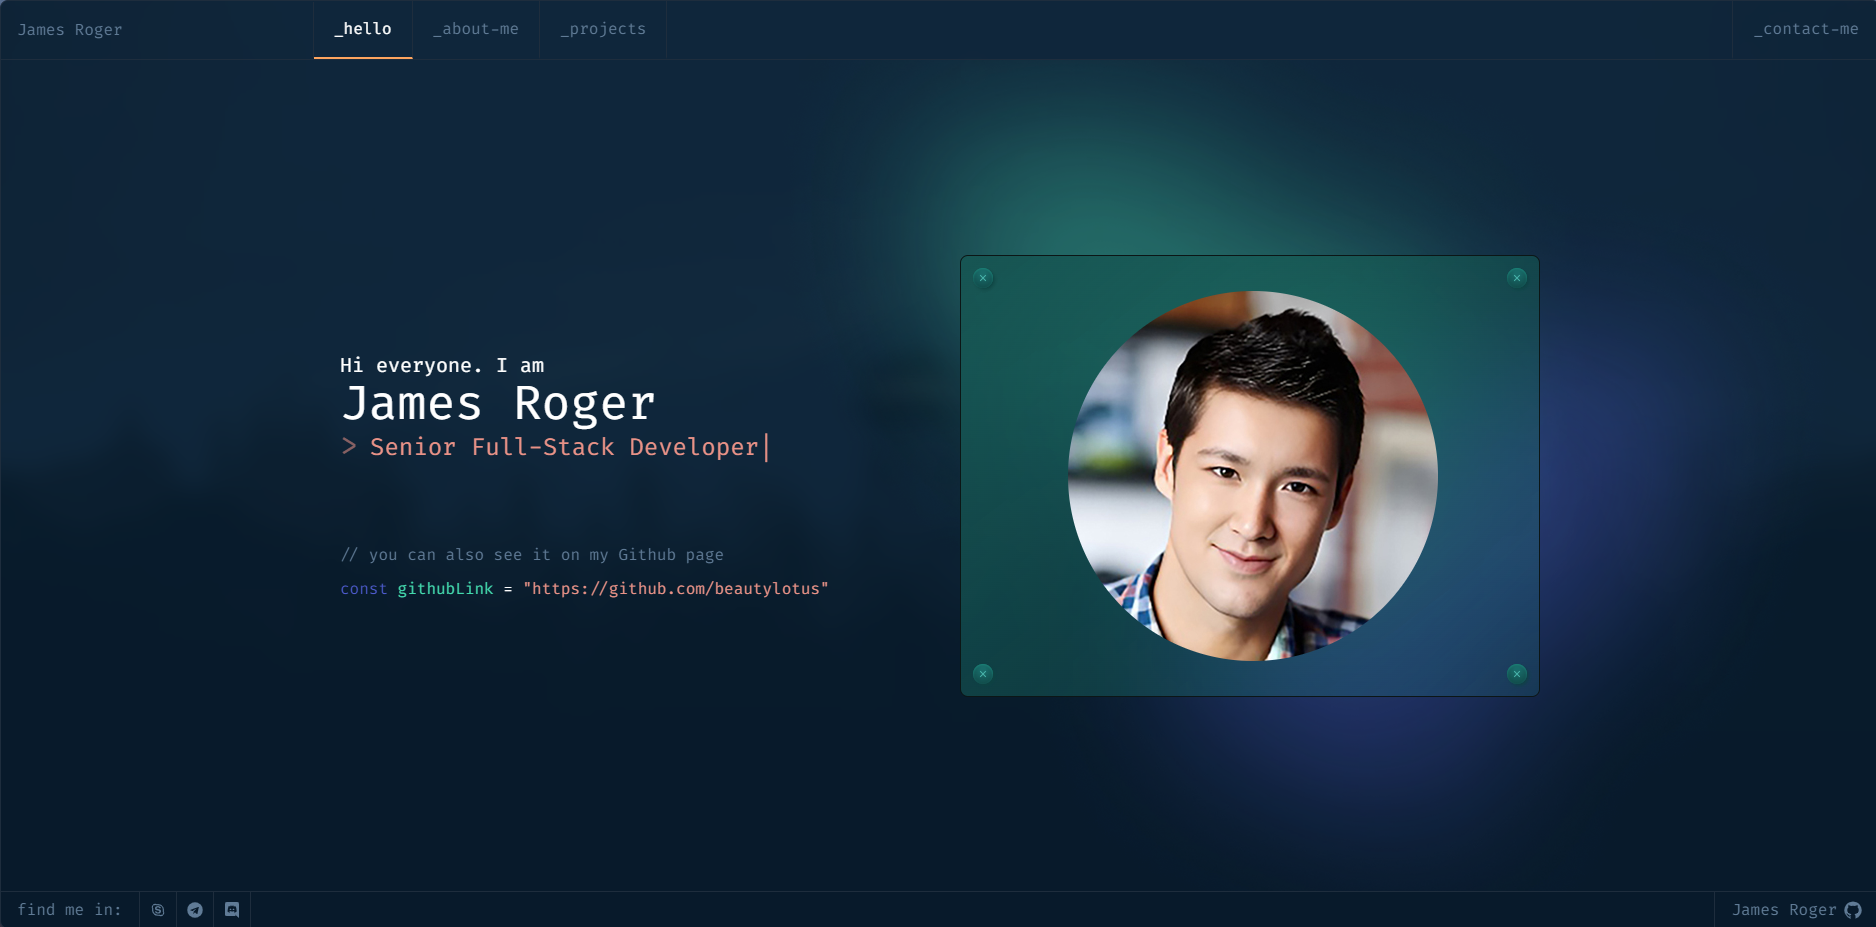
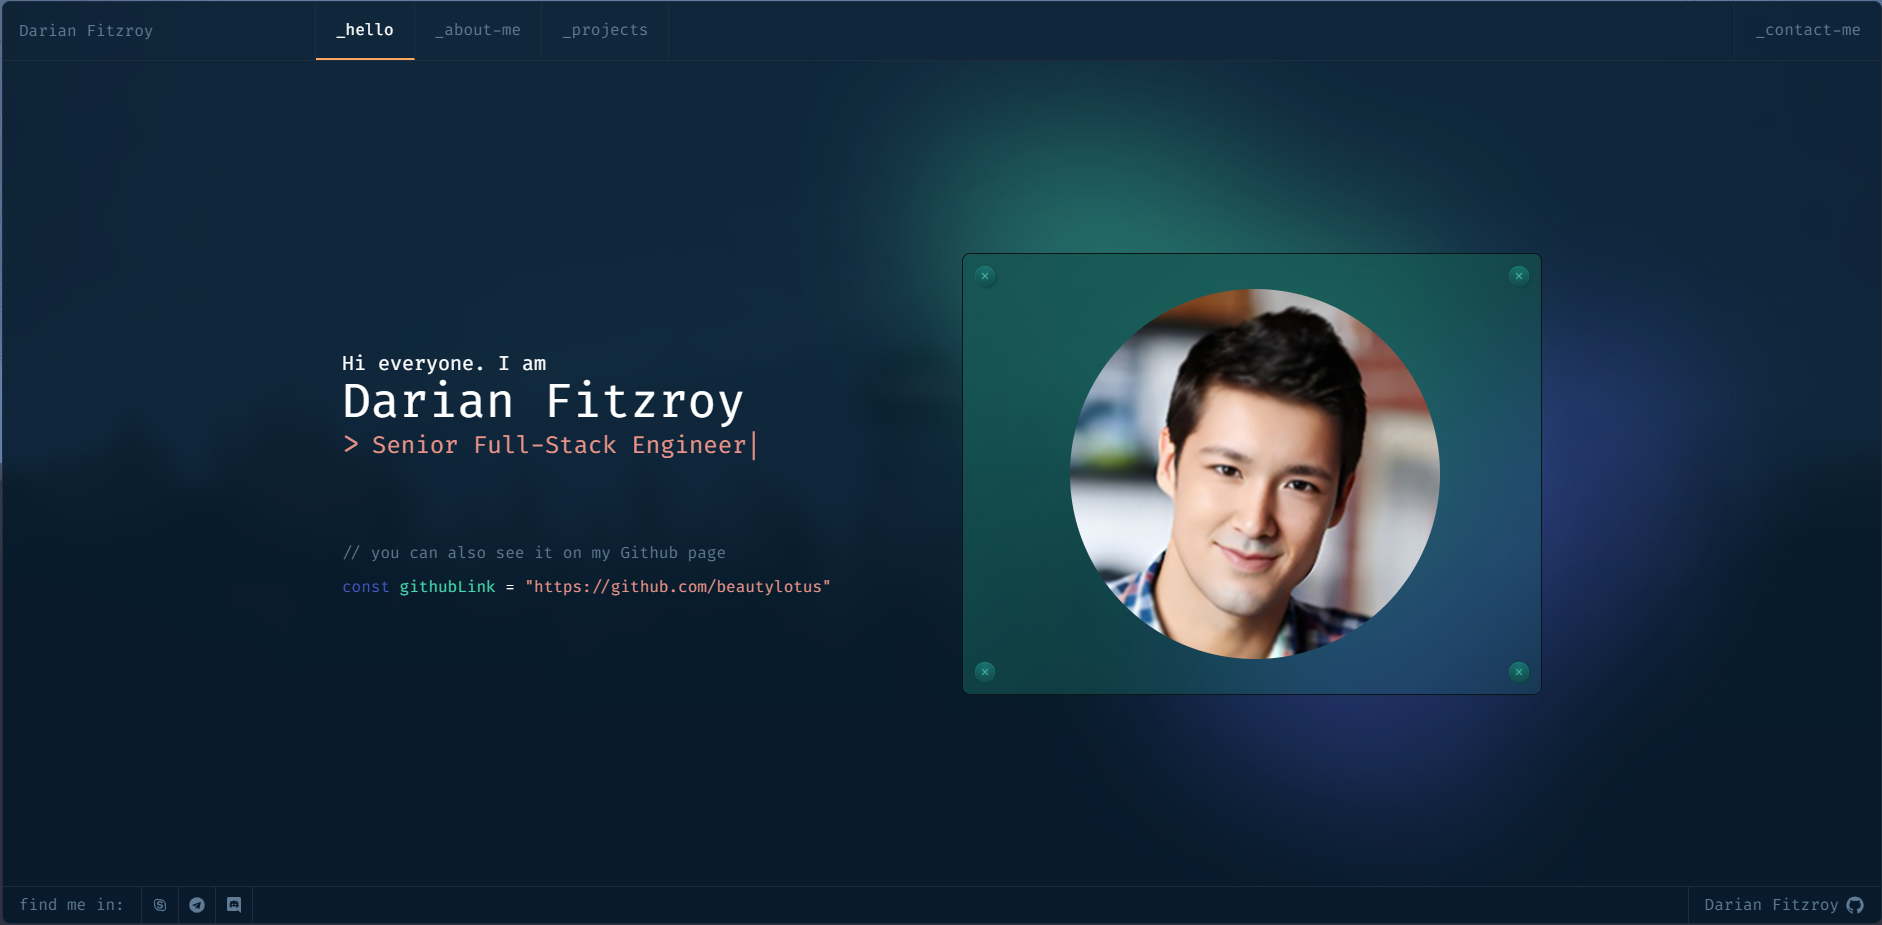
update name and experiences

diff --git a/src/pages/Home.jsx b/src/pages/Home.jsx
@@ -6,31 +6,6 @@ import { useEffect, useState } from "react";
 import Typewriter from "typewriter-effect";
 
 export default function Home() {
-  const ALLOWED_KEYS = ["ArrowUp", "ArrowDown", "ArrowLeft", "ArrowRight"];
-  const [pressed, setPressed] = useState([]);
-
-  useEffect(() => {
-    const handleKeyDown = (event) => {
-      const { key } = event;
-      if (ALLOWED_KEYS.includes(key) && !pressed.includes(key)) {
-        setPressed((prevPressed) => [...prevPressed, key]);
-      }
-    };
-
-    const handleKeyUp = (event) => {
-      const { key } = event;
-      setPressed(pressed.filter((k) => k !== key));
-    };
-
-    document.addEventListener("keydown", handleKeyDown);
-    document.addEventListener("keyup", handleKeyUp);
-
-    return () => {
-      document.removeEventListener("keydown", handleKeyDown);
-      document.removeEventListener("keyup", handleKeyUp);
-    };
-  }, []);
-
   return (
     <motion.div
       className="w-full h-full bg-radial bg-no-repeat bg-right"
@@ -58,7 +33,7 @@ export default function Home() {
                 }}
                 onInit={(typewriter) => {
                   typewriter
-                    .typeString("Senior Full-Stack Developer")
+                    .typeString("Senior Full-Stack Engineer")
                     .pauseFor(1000)
                     .deleteAll()
                     .typeString("I love to learn new technology")
